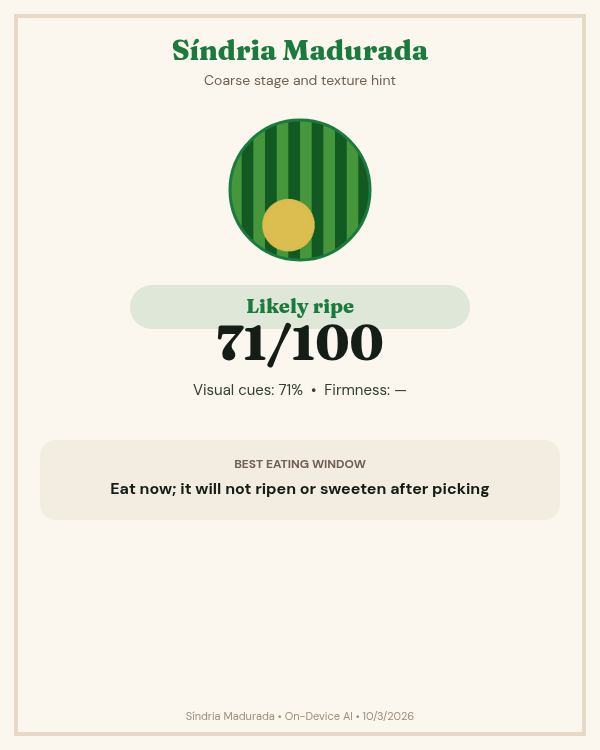
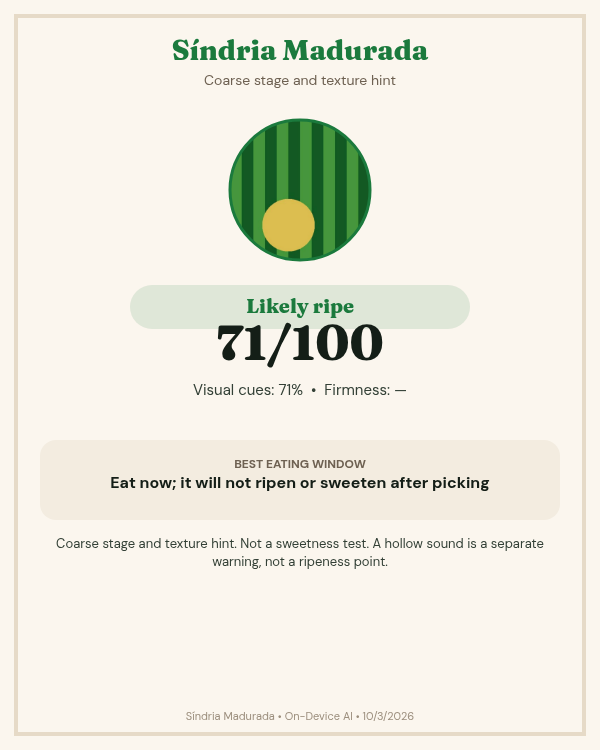
Name the three verdicts and the hollow warning in result tips.
Each observation tip now names likely ripe, borderline, and likely unripe, and says a hollow sound is a separate warning. The share image draws that same sentence. Scoring is unchanged.

Changed region(s): [[0.09, 0.7053, 0.9, 0.7667], [0.18, 0.6133, 0.81, 0.6747]]

diff --git a/src/i18n/es.ts b/src/i18n/es.ts
@@ -148,16 +148,19 @@ export const es: Translations = {
   summaryUnripe:
     'Probablemente verde. La mancha de tierra puede faltar o seguir verde frente a la corteza, o los golpes pueden sonar tensos en lugar de apagados. Un sonido hueco es un aviso aparte, no un punto de madurez. La fruta no madura ni se endulza después de cortarla.',
   tipSpotMissing:
-    'Prefiere un encuadre que muestre la mancha de tierra. Valora la pérdida de verde frente al resto de la corteza, no el amarillo absoluto.',
+    'Prefiere un encuadre que muestre la mancha de tierra. Valora la pérdida de verde frente al resto de la corteza, no el amarillo absoluto. Las palabras son solo probablemente madura, en el límite, o probablemente verde. Un sonido hueco es un aviso aparte, no un punto de madurez.',
   tipSpotPresent:
-    'La mancha de tierra se ve. Es una pista de estadio — pérdida de verde frente a la corteza — no una prueba de dulzor.',
-  tipKnockHigh: 'Los golpes suenan tensos, no apagados. Es una pista de firmeza, no más graves.',
-  tipKnockSweetZone: 'Varios golpes suenan apagados, no tensos. Es una pista de firmeza, no más graves.',
+    'La mancha de tierra se ve. Es una pista de estadio — pérdida de verde frente a la corteza — no una prueba de dulzor. Las palabras son solo probablemente madura, en el límite, o probablemente verde. Un sonido hueco es un aviso aparte, no un punto de madurez.',
+  tipKnockHigh:
+    'Los golpes suenan tensos, no apagados. Es una pista de firmeza, no más graves. Las palabras son solo probablemente madura, en el límite, o probablemente verde. Un sonido hueco es un aviso aparte, no un punto de madurez.',
+  tipKnockSweetZone:
+    'Varios golpes suenan apagados, no tensos. Es una pista de firmeza, no más graves. Las palabras son solo probablemente madura, en el límite, o probablemente verde. Un sonido hueco es un aviso aparte, no un punto de madurez.',
   tipKnockSweetZoneSmall:
-    'Varios golpes en esta sandía más pequeña suenan apagados, no tensos. Es una pista de firmeza, no más graves.',
+    'Varios golpes en esta sandía más pequeña suenan apagados, no tensos. Es una pista de firmeza, no más graves. Las palabras son solo probablemente madura, en el límite, o probablemente verde. Un sonido hueco es un aviso aparte, no un punto de madurez.',
   tipStripeLow:
-    'En la fruta rayada, busca contraste entre las vetas. Una corteza apagada no significa madura en todos los cultivares.',
-  tipOffVineReminder: 'La fruta no madura ni se endulza después de cortarla.',
+    'En la fruta rayada, busca contraste entre las vetas. Una corteza apagada no significa madura en todos los cultivares. Las palabras son solo probablemente madura, en el límite, o probablemente verde. Un sonido hueco es un aviso aparte, no un punto de madurez.',
+  tipOffVineReminder:
+    'La fruta no madura ni se endulza después de cortarla. Las palabras son solo probablemente madura, en el límite, o probablemente verde. Un sonido hueco es un aviso aparte, no un punto de madurez.',
   audioNotMeasured: 'No medido',
   audioNotMeasuredDesc: 'Test acústico omitido por el usuario',
   confidenceLabel: 'Confianza estimada',

diff --git a/src/i18n/ca.ts b/src/i18n/ca.ts
@@ -148,16 +148,19 @@ export const ca: Translations = {
   summaryUnripe:
     'Probablement verda. La taca de terra pot faltar o seguir verda respecte a la pell, o els cops poden sonar tensos en lloc d’apagats. Un so buit és un avís a part, no un punt de maduresa. La fruita no madura ni s’endolceix després de collir-la.',
   tipSpotMissing:
-    'Prefereix un enquadrament on es vegi la taca de terra. Valora la pèrdua de verd respecte a la resta de la pell, no el groc absolut.',
+    'Prefereix un enquadrament on es vegi la taca de terra. Valora la pèrdua de verd respecte a la resta de la pell, no el groc absolut. Les paraules són només probablement madura, al límit, o probablement verda. Un so buit és un avís a part, no un punt de maduresa.',
   tipSpotPresent:
-    'La taca de terra es veu. És una pista d’estadi — pèrdua de verd respecte a la pell — no una prova de dolçor.',
-  tipKnockHigh: 'Els cops sonen tensos, no apagats. És una pista de fermesa, no més greu.',
-  tipKnockSweetZone: 'Diversos cops sonen apagats, no tensos. És una pista de fermesa, no més greu.',
+    'La taca de terra es veu. És una pista d’estadi — pèrdua de verd respecte a la pell — no una prova de dolçor. Les paraules són només probablement madura, al límit, o probablement verda. Un so buit és un avís a part, no un punt de maduresa.',
+  tipKnockHigh:
+    'Els cops sonen tensos, no apagats. És una pista de fermesa, no més greu. Les paraules són només probablement madura, al límit, o probablement verda. Un so buit és un avís a part, no un punt de maduresa.',
+  tipKnockSweetZone:
+    'Diversos cops sonen apagats, no tensos. És una pista de fermesa, no més greu. Les paraules són només probablement madura, al límit, o probablement verda. Un so buit és un avís a part, no un punt de maduresa.',
   tipKnockSweetZoneSmall:
-    'Diversos cops en aquesta síndria més petita sonen apagats, no tensos. És una pista de fermesa, no més greu.',
+    'Diversos cops en aquesta síndria més petita sonen apagats, no tensos. És una pista de fermesa, no més greu. Les paraules són només probablement madura, al límit, o probablement verda. Un so buit és un avís a part, no un punt de maduresa.',
   tipStripeLow:
-    'En la fruita ratllada, busca contrast entre les vetes. Una pell apagada no vol dir madura en totes les varietats.',
-  tipOffVineReminder: 'La fruita no madura ni s’endolceix després de collir-la.',
+    'En la fruita ratllada, busca contrast entre les vetes. Una pell apagada no vol dir madura en totes les varietats. Les paraules són només probablement madura, al límit, o probablement verda. Un so buit és un avís a part, no un punt de maduresa.',
+  tipOffVineReminder:
+    'La fruita no madura ni s’endolceix després de collir-la. Les paraules són només probablement madura, al límit, o probablement verda. Un so buit és un avís a part, no un punt de maduresa.',
   audioNotMeasured: 'No mesurat',
   audioNotMeasuredDesc: 'Test acústic omès per l’usuari',
   confidenceLabel: 'Confiança estimada',

diff --git a/src/i18n/en.ts b/src/i18n/en.ts
@@ -148,16 +148,19 @@ export const en: Translations = {
   summaryUnripe:
     'Likely unripe. The field spot may be missing or still green against the rind, or the knocks may sound tight rather than dull. A hollow sound is a separate warning, not a ripeness point. The fruit does not ripen or sweeten after picking.',
   tipSpotMissing:
-    'Prefer a frame that shows the field spot. Score loss of green against the rest of the rind, not absolute yellow.',
+    'Prefer a frame that shows the field spot. Score loss of green against the rest of the rind, not absolute yellow. The words are only likely ripe, borderline, or likely unripe. A hollow sound is a separate warning, not a ripeness point.',
   tipSpotPresent:
-    'The field spot is in frame. It is a stage cue — loss of green against the rind — not proof of sweetness.',
-  tipKnockHigh: 'Knocks sound tight rather than dull. That is a firmness cue, not more bass.',
-  tipKnockSweetZone: 'Several knocks sound dull rather than tight. That is a firmness cue, not more bass.',
+    'The field spot is in frame. It is a stage cue — loss of green against the rind — not proof of sweetness. The words are only likely ripe, borderline, or likely unripe. A hollow sound is a separate warning, not a ripeness point.',
+  tipKnockHigh:
+    'Knocks sound tight rather than dull. That is a firmness cue, not more bass. The words are only likely ripe, borderline, or likely unripe. A hollow sound is a separate warning, not a ripeness point.',
+  tipKnockSweetZone:
+    'Several knocks sound dull rather than tight. That is a firmness cue, not more bass. The words are only likely ripe, borderline, or likely unripe. A hollow sound is a separate warning, not a ripeness point.',
   tipKnockSweetZoneSmall:
-    'Several knocks on this smaller melon sound dull rather than tight. That is a firmness cue, not more bass.',
+    'Several knocks on this smaller melon sound dull rather than tight. That is a firmness cue, not more bass. The words are only likely ripe, borderline, or likely unripe. A hollow sound is a separate warning, not a ripeness point.',
   tipStripeLow:
-    'On striped fruit, look for contrast between ribbon stripes. A dull rind does not mean ripe for every cultivar.',
-  tipOffVineReminder: 'The fruit does not ripen or sweeten after picking.',
+    'On striped fruit, look for contrast between ribbon stripes. A dull rind does not mean ripe for every cultivar. The words are only likely ripe, borderline, or likely unripe. A hollow sound is a separate warning, not a ripeness point.',
+  tipOffVineReminder:
+    'The fruit does not ripen or sweeten after picking. The words are only likely ripe, borderline, or likely unripe. A hollow sound is a separate warning, not a ripeness point.',
   audioNotMeasured: 'Not measured',
   audioNotMeasuredDesc: 'Acoustic test skipped by user',
   confidenceLabel: 'Estimated confidence',

diff --git a/src/lib/share/shareCard.ts b/src/lib/share/shareCard.ts
@@ -1,5 +1,22 @@
 import { RipenessResult } from '../types';
 
+function wrapCanvasLines(ctx: CanvasRenderingContext2D, text: string, maxWidth: number): string[] {
+  const words = text.split(/\s+/).filter(Boolean);
+  const lines: string[] = [];
+  let line = '';
+  for (const word of words) {
+    const trial = line ? `${line} ${word}` : word;
+    if (line && ctx.measureText(trial).width > maxWidth) {
+      lines.push(line);
+      line = word;
+    } else {
+      line = trial;
+    }
+  }
+  if (line) lines.push(line);
+  return lines;
+}
+
 export async function generateShareCardBlob(
   result: RipenessResult,
   photoUrl?: string,
@@ -13,6 +30,8 @@ export async function generateShareCardBlob(
     audioLabel: string;
     firmnessLabel?: string;
     cardSubtitle?: string;
+    /** Same clipboard sentence, including the hollow warning. */
+    shareNote?: string;
   }
 ): Promise<Blob | null> {
   if (typeof document === 'undefined') return null;
@@ -141,7 +160,22 @@ export async function generateShareCardBlob(
 
   ctx.fillStyle = isDark ? '#FFFFFF' : '#141E17';
   ctx.font = 'bold 16px DM Sans, sans-serif, system-ui';
-  ctx.fillText(labels?.eatWindowValue || result.eatWindowLabel, width / 2, currentY + 54);
+  const eatText = labels?.eatWindowValue || result.eatWindowLabel;
+  const eatLines = wrapCanvasLines(ctx, eatText, width - 100);
+  eatLines.forEach((line, index) => {
+    ctx.fillText(line, width / 2, currentY + 48 + index * 18);
+  });
+
+  const note = labels?.shareNote?.trim();
+  if (note) {
+    ctx.fillStyle = isDark ? '#D8E2DA' : '#334036';
+    ctx.font = '13px DM Sans, sans-serif, system-ui';
+    const noteLines = wrapCanvasLines(ctx, note, width - 96);
+    const noteTop = currentY + 80 + 28;
+    noteLines.forEach((line, index) => {
+      ctx.fillText(line, width / 2, noteTop + index * 18);
+    });
+  }
 
   // Footer
   ctx.fillStyle = isDark ? '#6B7F72' : '#9C8F7E';

diff --git a/src/components/ResultCard.tsx b/src/components/ResultCard.tsx
@@ -139,6 +139,7 @@ export const ResultCard: React.FC<ResultCardProps> = ({
           result.audioFeatures.knockCount
         ),
         cardSubtitle: t('appSubtitle'),
+        shareNote: t('shareSummary'),
       });
 
       if (blob && navigator.share && navigator.canShare) {
